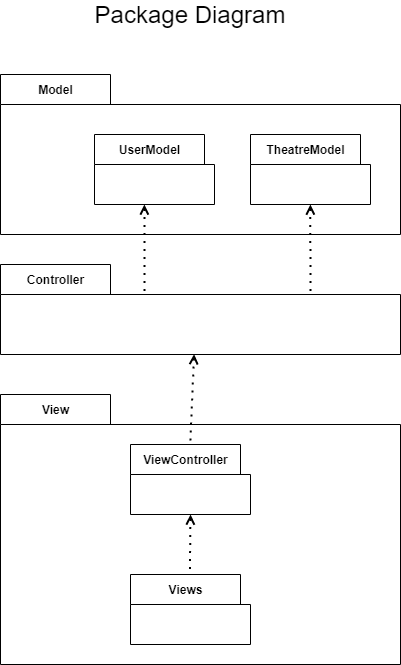
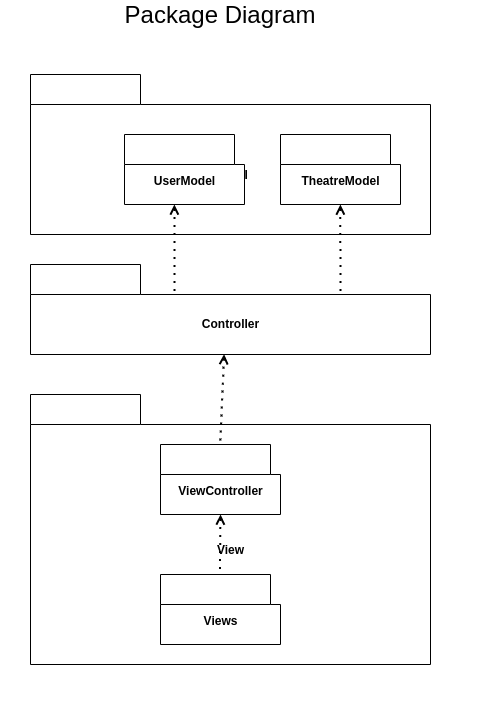
final report progress

diff --git a/ENSF-619_Group-8_TicketReservationApp-DesignReport.md b/ENSF-619_Group-8_TicketReservationApp-DesignReport.md
@@ -28,7 +28,7 @@
 <div style="page-break-after: always;"></div>
 
 ## Use Case: Select Ticket - By: Patrick Kwan
-![Select Ticket](./SequenceDiagrams/SequenceSelectTicket.png)
+![Select Ticket](./SequenceDiagrams/SequenceSelectTicketwithGUI.png)
 <div style="page-break-after: always;"></div>
 
 ## Use Case: Checkout - By: Oluwapelumi Laditan
@@ -37,7 +37,6 @@
 
 ## Use Case: Register User - By: Michael Lasby
 ![Register User](./SequenceDiagrams/SequenceRegisterUser.png)
-
 <div style="page-break-after: always;"></div>
 
 # State Transition Diagrams
@@ -52,45 +51,38 @@
 # Activity Diagrams
 
 ## Register Account
-![Register Account](./ActivityDiagrams/RegisterAccountActivityDiagram.png)
+![Register Account](./ActivityDiagrams/RegisterUserActivityDiagram.png)
 <div style="page-break-after: always;"></div>
 
 ## Pay Annual
-![Register Account](./ActivityDiagrams/RegisterAccountActivityDiagram.png)
+![Pay Annual](./ActivityDiagrams/PayAnnualActivityDiagram.png)
 <div style="page-break-after: always;"></div>
 
 ## Login
-![Register Account](./ActivityDiagrams/RegisterAccountActivityDiagram.png)
+![Login](./ActivityDiagrams/LoginActivityDiagram.png)
 <div style="page-break-after: always;"></div>
 
 ## Select Ticket
-![Register Account](./ActivityDiagrams/RegisterAccountActivityDiagram.png)
+![Select Ticket](./ActivityDiagrams/SelectTicketActivityDiagram.png)
 <div style="page-break-after: always;"></div>
 
 ## Checkout
-![Register Account](./ActivityDiagrams/RegisterAccountActivityDiagram.png)
+![Register Account](./ActivityDiagrams/CheckoutActivityDiagram.png)
 <div style="page-break-after: always;"></div>
 
 ## Refund Ticket
-![Register Account](./ActivityDiagrams/RegisterAccountActivityDiagram.png)
+![Refund Ticket](./ActivityDiagrams/RegisterAccountActivityDiagram.png)
 <div style="page-break-after: always;"></div>
 
 ## Issue Movie News
 ![Register Account](./ActivityDiagrams/RegisterAccountActivityDiagram.png)
 <div style="page-break-after: always;"></div>
 
-Checkout
-Select Ticket
-Register Account
-Login
-CancelTicket
-Pay Annual
-Issue Movie News
-
 
 <div style="page-break-after: always;"></div>
 
 # Package Diagram
+![Package Diagram](./PackageDiagram/PackageDiagram.png)
 
 <div style="page-break-after: always;"></div>
 
